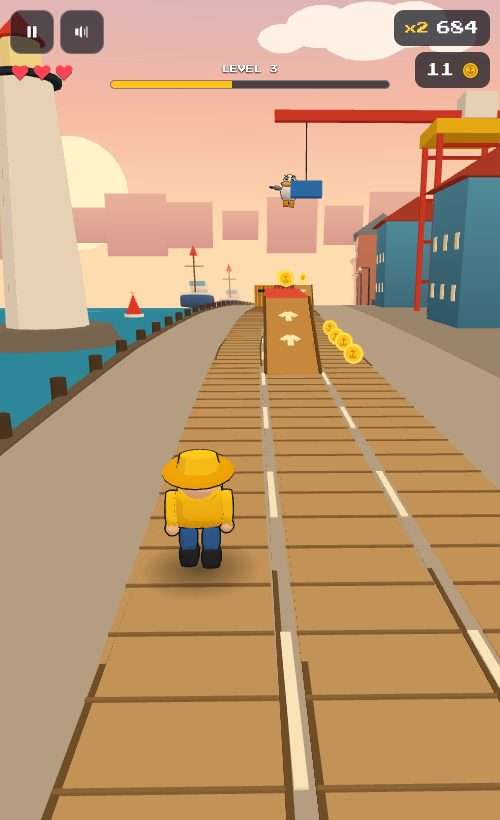
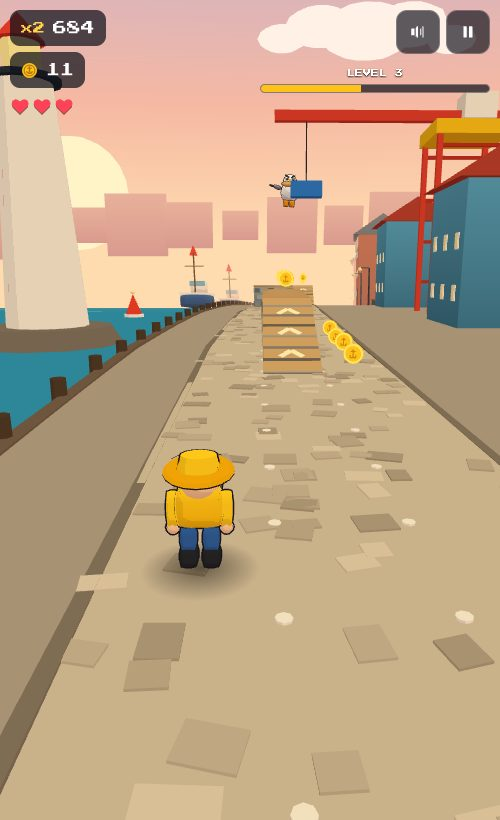
Hafenflitzer: neue Bilder und neuer Text nach dem Umbau

diff --git a/index.html b/index.html
@@ -544,15 +544,15 @@ const SPIELE = [
 
   {
     titel: 'HAFENFLITZER',
-    beschreibung: 'Möwe Gisela hat dein Fischbrötchen geklaut! Renn ihr in echtem 3D hinterher: Wechsle die Spur, spring über Kisten, rutsch unter Schranken durch und lauf über Container-Dächer. Neue verrückte Figuren schaltest du frei, je weiter du kommst.',
-    merkmale: ['3D', '30 Level', '5 Welten', '11 Figuren', 'Dauerlauf', 'Werkstatt', 'Aufträge', '3 Schwierigkeiten', 'Freunde-Rangliste', 'Retro-Sounds'],
+    beschreibung: 'Möwe Gisela hat dein Fischbrötchen geklaut! Renn ihr in echtem 3D hinterher: Weich rollenden Steinkugeln aus, spring über Kisten, rutsch unter Wimpelleinen durch und flieg kurz in der Flug-Badewanne. Jede verrückte Figur springt anders, und neue schaltest du frei, je weiter du kommst.',
+    merkmale: ['3D', '30 Level', '5 Welten', '11 Figuren', '11 Sprünge', 'Dauerlauf', 'Werkstatt', 'Aufträge', '3 Schwierigkeiten', 'Freunde-Rangliste', 'Retro-Sounds'],
     steuerung: 'Handy: nach links, rechts, oben oder unten wischen. Computer: Pfeiltasten oder W, A, S, D, P für Pause, M für Ton.',
     spielen: 'https://moje9328.github.io/hafenflitzer/',
     download: 'https://moje9328.github.io/hafenflitzer/index.html',
     dateiname: 'hafenflitzer.html',
     bilder: [
-      { datei: 'bilder/hafenflitzer-hafen.jpg', text: 'Hafenflitzer: Hein Fiete rennt im Morgenhafen auf eine Container-Rampe zu, über ihm fliegt Möwe Gisela' },
-      { datei: 'bilder/hafenflitzer-strand.jpg', text: 'Hafenflitzer: Oma Hilde auf der bunten Strandpromenade, von der Seite kullert ein Wasserball' },
+      { datei: 'bilder/hafenflitzer-hafen.jpg', text: 'Hafenflitzer: Hein Fiete rennt im Morgenhafen auf die Rampe eines Steinpodests zu' },
+      { datei: 'bilder/hafenflitzer-strand.jpg', text: 'Hafenflitzer: Oma Hilde auf der bunten Strandpromenade, eine große Steinkugel rollt auf sie zu' },
       { datei: 'bilder/hafenflitzer-markt.jpg', text: 'Hafenflitzer: Rollmops Rudi nachts auf dem Fischmarkt, vor ihm schwingt eine Laterne' },
       { datei: 'bilder/hafenflitzer-sturm.jpg', text: 'Hafenflitzer: Krabbe Kalle auf dem Sturmschiff, eine Welle rollt über das Deck auf sie zu' },
       { datei: 'bilder/hafenflitzer-mond.jpg', text: 'Hafenflitzer: Käpt\'n Blorp im Mondhafen, rote Ringe warnen vor Meteoriten' }
